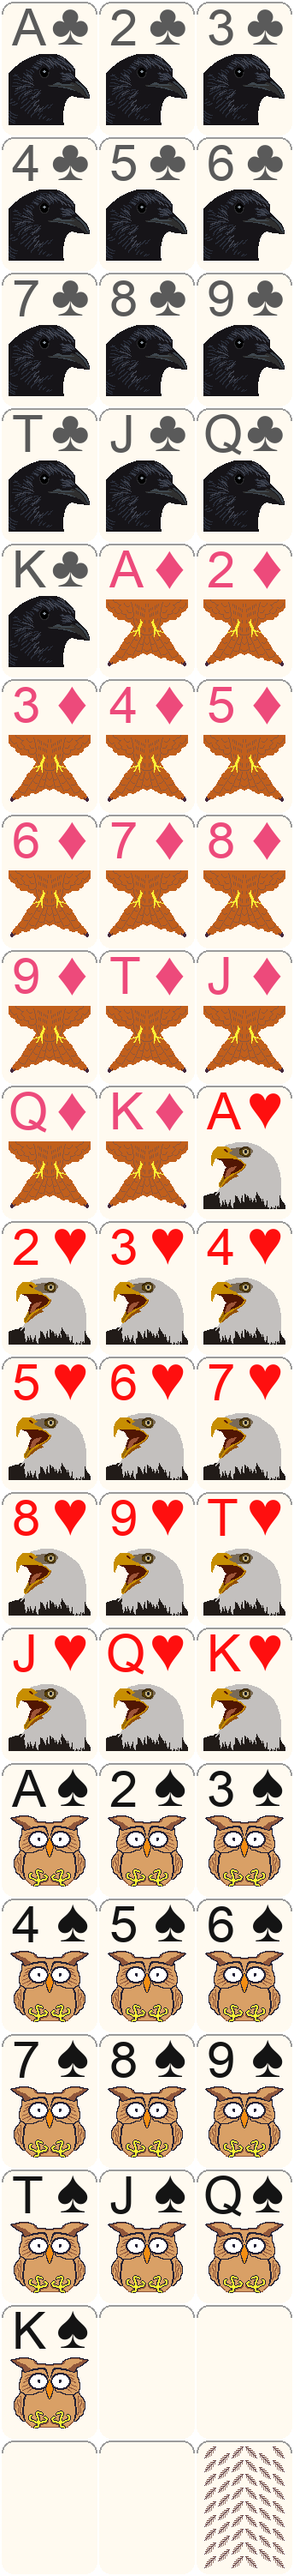
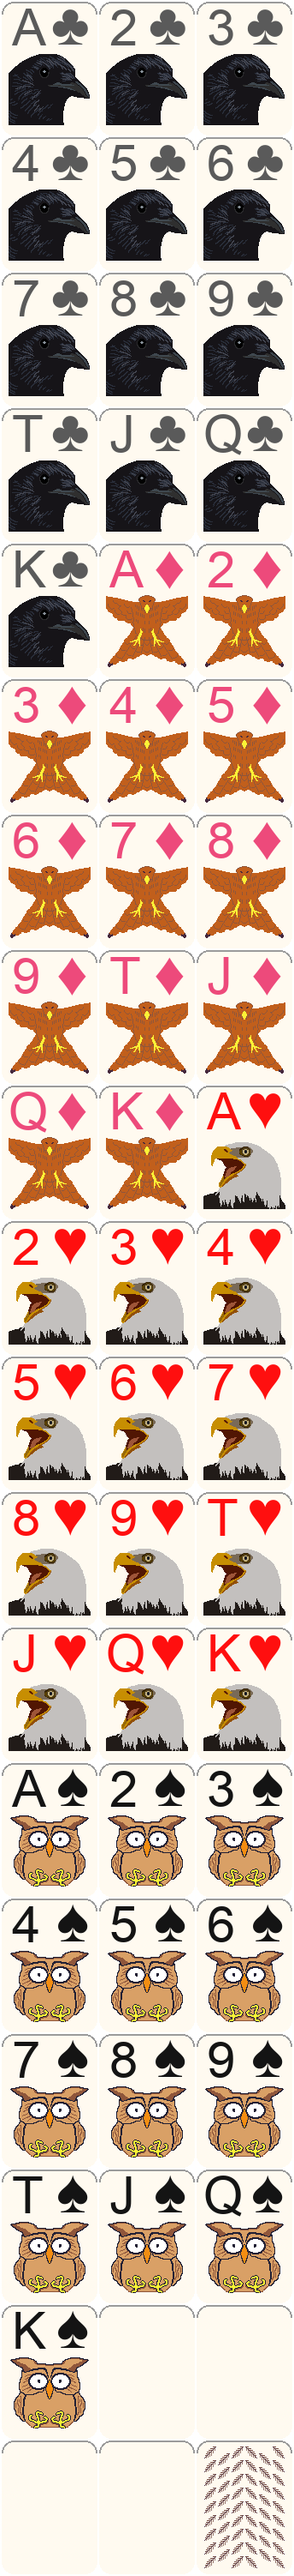
integrated kite graphic on card fronts

diff --git a/dev/code/write_deck_resize.py b/dev/code/write_deck_resize.py
@@ -102,16 +102,16 @@ def generate_cards():
                   img.paste(eagle_img, (eagle_x, eagle_y), eagle_img.split()[3])
 
                 elif suitLetter == 'd':
-                  redkite_img = Image.open("public/assets/images/red-kite.png")
+                  redkite_img = Image.open("public/assets/images/red-kite-3.png")
                   if redkite_img.mode != 'RGBA':
                     redkite_img = redkite_img.convert('RGBA')
                   redkite_x = x - 96 // 2
                   redkite_y = y - 84 // 2 + 12 * scale
                   img.paste(redkite_img, (redkite_x, redkite_y), redkite_img.split()[3])
 
-                else:
-                  draw.rounded_rectangle([rect_x1, graphic_y, rect_x2, rect_y2],
-                                      radius=9 * scale, fill=colour, outline=colour, width=1)
+                # else:
+                #   draw.rounded_rectangle([rect_x1, graphic_y, rect_x2, rect_y2],
+                #                       radius=9 * scale, fill=colour, outline=colour, width=1)
 
                 # # 2. white text super-imposed on colour rectangle
                 # if suitLetter == 'c':
@@ -127,7 +127,6 @@ def generate_cards():
                 else:
                   fontsmall = ImageFont.truetype("/System/Library/Fonts/Arial.ttf", 30 * scale)
                   leftMargin = 6
-
 
                 draw.text((xt + leftMargin * scale, yt - 2 * scale), value, fill=colour, font=fontsmall)
 
